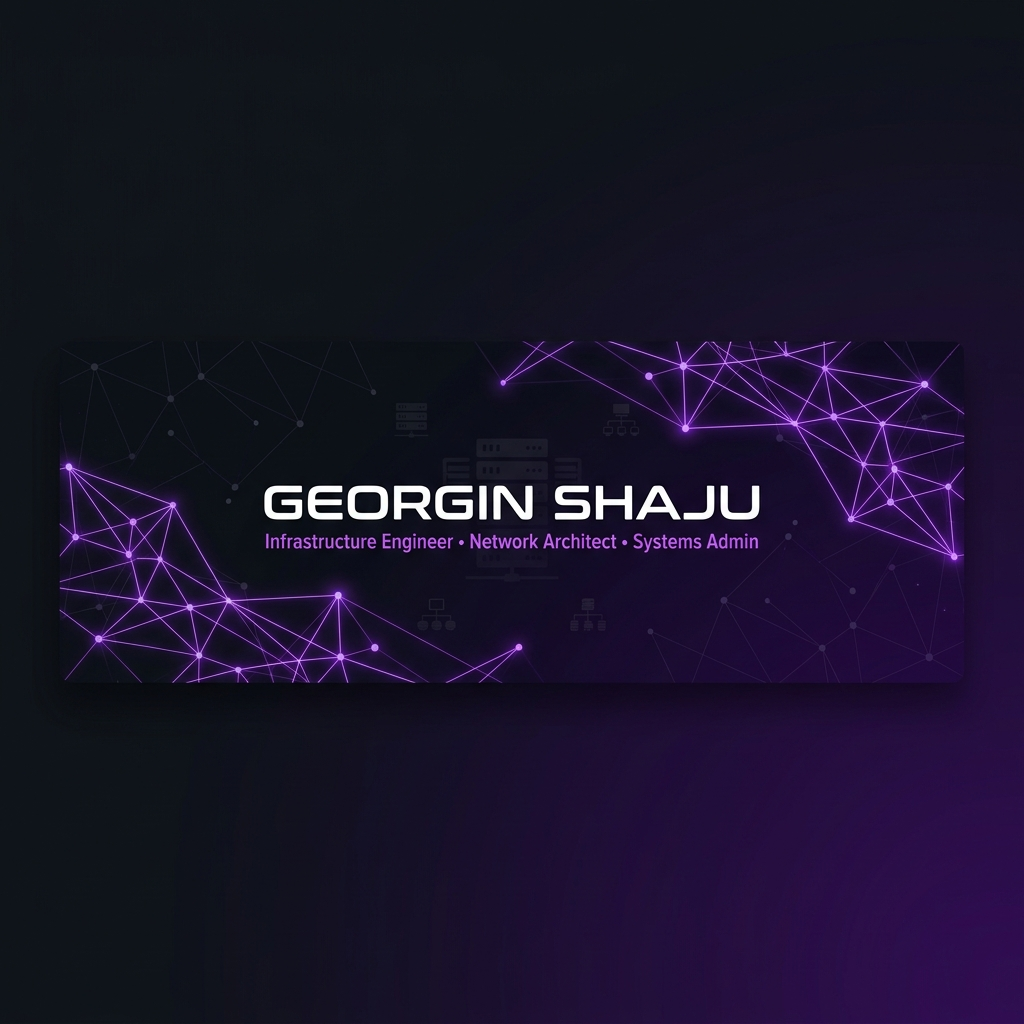
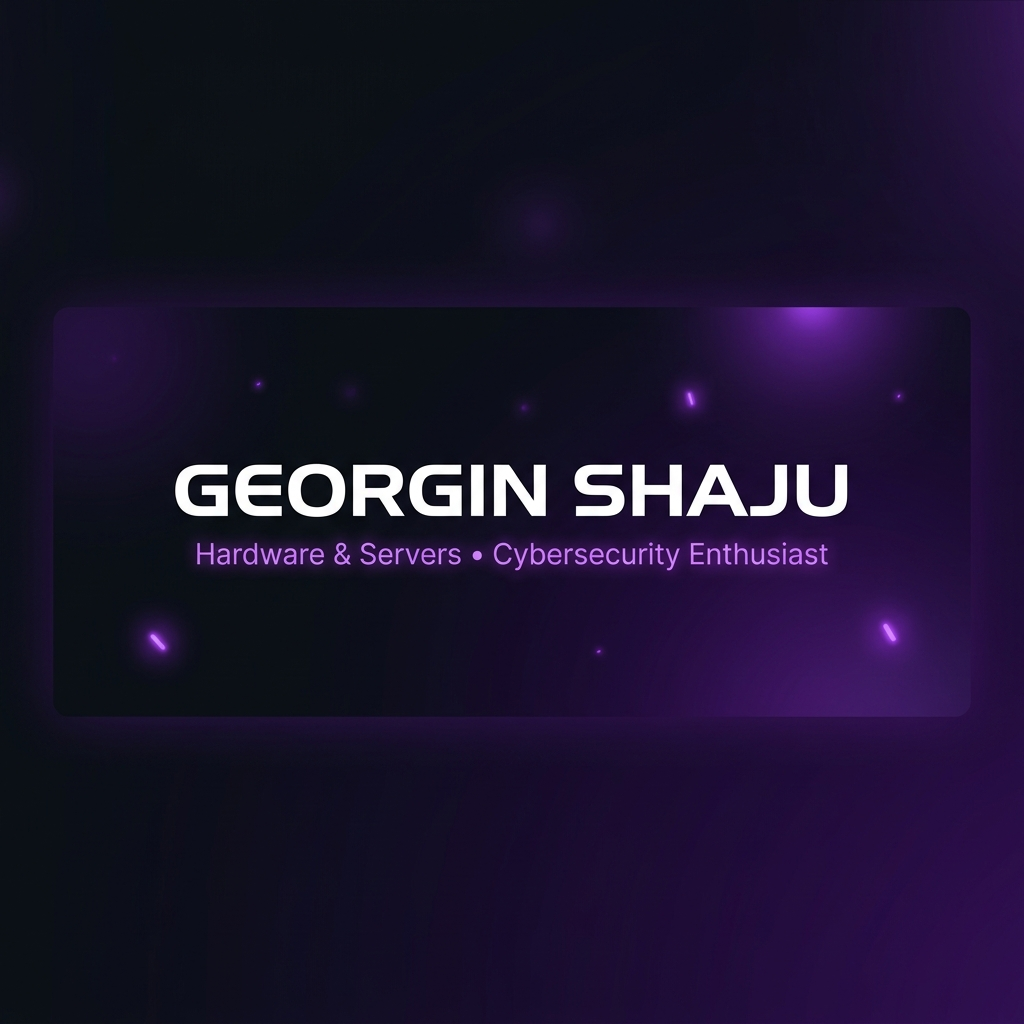
Update profile to reflect learner status and cybersecurity interest

diff --git a/README.md b/README.md
@@ -1,6 +1,6 @@
 <!-- Animated Header -->
 <div align="center">
-  <img src="https://capsule-render.vercel.app/api?type=waving&color=gradient&customColorList=6,12,19,20,25&height=180&section=header&text=GEORGIN%20SHAJU&fontSize=42&fontColor=ffffff&animation=fadeIn&fontAlignY=32&desc=Infrastructure%20Engineer%20%E2%80%A2%20Network%20Architect%20%E2%80%A2%20Systems%20Admin&descSize=16&descAlignY=52&descColor=a855f7" width="100%" />
+  <img src="https://capsule-render.vercel.app/api?type=waving&color=gradient&customColorList=6,12,19,20,25&height=180&section=header&text=GEORGIN%20SHAJU&fontSize=42&fontColor=ffffff&animation=fadeIn&fontAlignY=32&desc=IT%20Trainee%20%E2%80%A2%20Hardware%20%26%20Servers%20%E2%80%A2%20Cybersecurity%20Enthusiast&descSize=16&descAlignY=52&descColor=a855f7" width="100%" />
 </div>
 
 <!-- Custom Banner -->
@@ -13,7 +13,7 @@
 <!-- Animated Typing -->
 <div align="center">
   <a href="https://git.io/typing-svg">
-    <img src="https://readme-typing-svg.demolab.com?font=Fira+Code&weight=600&size=24&duration=3000&pause=1000&color=A855F7&center=true&vCenter=true&multiline=true&repeat=true&random=false&width=650&height=100&lines=%F0%9F%91%8B+Hey+there!+I'm+Georgin+Shaju;%F0%9F%96%A5%EF%B8%8F+IT+Infrastructure+%26+Networking+Specialist;%F0%9F%8F%97%EF%B8%8F+Building+Enterprise+Lab+Environments;%F0%9F%94%A7+VMware+%C2%B7+Windows+Server+%C2%B7+Active+Directory" alt="Typing SVG" />
+    <img src="https://readme-typing-svg.demolab.com?font=Fira+Code&weight=600&size=24&duration=3000&pause=1000&color=A855F7&center=true&vCenter=true&multiline=true&repeat=true&random=false&width=650&height=100&lines=%F0%9F%91%8B+Hey+there!+I'm+Georgin+Shaju;%F0%9F%96%A5%EF%B8%8F+Currently+learning+about+Hardware+%26+Servers;%F0%9F%94%92+Passionate+about+Cybersecurity;%F0%9F%8F%97%EF%B8%8F+Exploring+the+world+of+IT+Infrastructure" alt="Typing SVG" />
   </a>
 </div>
 
@@ -50,25 +50,20 @@
 🏷 Name:     Georgin Shaju
 🌐 Username: Ftgeorgii
 📍 Location: India 🇮🇳
-🎯 Focus:    IT Infrastructure & Networking
+🎯 Focus:    IT Infrastructure & Cybersecurity
 
 🔭 Currently:
-  → Building enterprise-grade lab environments
-  → Designing network infrastructure solutions
+  → In an IT training program learning the foundations
+  → Studying computer hardware components and assembly
+  → Exploring Windows Server administration
+  → Diving into cybersecurity concepts and principles
 
 🌱 Learning:
-  → Cloud infrastructure (AWS / Azure)
-  → Network automation & IaC
-  → Container orchestration
+  → Server Management & Active Directory
+  → Network fundamentals
+  → Cybersecurity basics and defense strategies
 
-💼 Experience:
-  → VMware ESXi virtualization
-  → Windows Server 2019 administration
-  → Active Directory & Group Policy
-  → DNS, DHCP & enterprise networking
-  → HPE ProLiant DL360 Gen9 hardware
-
-⚡ Fun Fact: I build production-ready infra in my home lab
+⚡ Fun Fact: I enjoy taking computers apart to see how they work!
 ```
 
 <br clear="both"/>
@@ -118,7 +113,7 @@
 <br/>
 
 <!-- Tech Stack - Premium Grid -->
-## 🛠 **Tech Arsenal**
+## 🛠 **Current Tech Arsenal**
 
 <div align="center">
 
@@ -127,79 +122,28 @@
   <img src="https://img.shields.io/badge/Windows_Server-0078D4?style=for-the-badge&logo=windows&logoColor=white" />
   <img src="https://img.shields.io/badge/VMware_ESXi-607078?style=for-the-badge&logo=vmware&logoColor=white" />
   <img src="https://img.shields.io/badge/Active_Directory-003366?style=for-the-badge&logo=microsoft&logoColor=white" />
-  <img src="https://img.shields.io/badge/Hyper--V-5E5E5E?style=for-the-badge&logo=microsoft&logoColor=white" />
-  <img src="https://img.shields.io/badge/VirtualBox-183A61?style=for-the-badge&logo=virtualbox&logoColor=white" />
 </p>
 
 ### 🌐 Networking & Security
 <p>
+  <img src="https://img.shields.io/badge/Cybersecurity-CC0000?style=for-the-badge&logoColor=white" />
   <img src="https://img.shields.io/badge/DNS-4285F4?style=for-the-badge&logo=googledns&logoColor=white" />
   <img src="https://img.shields.io/badge/DHCP-005571?style=for-the-badge&logoColor=white" />
   <img src="https://img.shields.io/badge/TCP%2FIP-FF6F00?style=for-the-badge&logoColor=white" />
-  <img src="https://img.shields.io/badge/Group_Policy-0078D4?style=for-the-badge&logo=microsoft&logoColor=white" />
-  <img src="https://img.shields.io/badge/Firewall-CC0000?style=for-the-badge&logo=cisco&logoColor=white" />
-  <img src="https://img.shields.io/badge/VPN-2F5233?style=for-the-badge&logo=wireguard&logoColor=white" />
 </p>
 
-### 🔧 Tools & Scripting
+### 🔧 Tools
 <p>
   <img src="https://img.shields.io/badge/PowerShell-5391FE?style=for-the-badge&logo=powershell&logoColor=white" />
-  <img src="https://img.shields.io/badge/Bash-4EAA25?style=for-the-badge&logo=gnubash&logoColor=white" />
-  <img src="https://img.shields.io/badge/Python-3776AB?style=for-the-badge&logo=python&logoColor=white" />
+  <img src="https://img.shields.io/badge/Linux-FCC624?style=for-the-badge&logo=linux&logoColor=black" />
   <img src="https://img.shields.io/badge/Git-F05032?style=for-the-badge&logo=git&logoColor=white" />
-  <img src="https://img.shields.io/badge/VS_Code-007ACC?style=for-the-badge&logo=visual-studio-code&logoColor=white" />
 </p>
 
-### 🏢 Infrastructure & Cloud
+### 🏢 Hardware
 <p>
   <img src="https://img.shields.io/badge/HPE_ProLiant-00B388?style=for-the-badge&logo=hp&logoColor=white" />
-  <img src="https://img.shields.io/badge/Cisco-1BA0D7?style=for-the-badge&logo=cisco&logoColor=white" />
-  <img src="https://img.shields.io/badge/Docker-2496ED?style=for-the-badge&logo=docker&logoColor=white" />
-  <img src="https://img.shields.io/badge/Linux-FCC624?style=for-the-badge&logo=linux&logoColor=black" />
-  <img src="https://img.shields.io/badge/AWS-232F3E?style=for-the-badge&logo=amazonwebservices&logoColor=white" />
-  <img src="https://img.shields.io/badge/Azure-0078D4?style=for-the-badge&logo=microsoftazure&logoColor=white" />
+  <img src="https://img.shields.io/badge/Computer_Hardware-5E5E5E?style=for-the-badge&logoColor=white" />
 </p>
-
-</div>
-
-<br/>
-
-<img src="https://user-images.githubusercontent.com/73097560/115834477-dbab4500-a447-11eb-908a-139a6edaec5c.gif" width="100%">
-
-<br/>
-
-<!-- Infrastructure Skills Map - Premium ASCII Art -->
-## 🏗 **Infrastructure Architecture**
-
-<div align="center">
-
-```
-                          ┌──────────────────┐
-                          │   🌐 INTERNET     │
-                          └────────┬─────────┘
-                                   │
-                          ┌────────▼─────────┐
-                          │   🔥 FIREWALL     │
-                          │   Cisco ASA       │
-                          └────────┬─────────┘
-                                   │
-                 ┌─────────────────┼─────────────────┐
-                 │                 │                  │
-        ┌────────▼──────┐ ┌───────▼───────┐ ┌───────▼───────┐
-        │  🖥 DMZ       │ │  🏢 LAN       │ │  📡 MGMT     │
-        │  Web Server   │ │  AD / DNS     │ │  vSphere     │
-        │  Reverse Proxy│ │  DHCP / GPO   │ │  Monitoring  │
-        └───────────────┘ │  File Server  │ └───────────────┘
-                          └───────┬───────┘
-                                  │
-                    ┌─────────────┼─────────────┐
-                    │             │              │
-           ┌───────▼──────┐ ┌────▼─────┐ ┌─────▼──────┐
-           │ 🖥 ESXi Host │ │ 🖥 ESXi  │ │ 🐳 Docker  │
-           │ HPE DL360    │ │ Host 2   │ │ Containers │
-           │ Gen9         │ │          │ │            │
-           └──────────────┘ └──────────┘ └────────────┘
-```
 
 </div>
 
@@ -215,12 +159,6 @@
 <div align="center">
   <img width="49%" src="https://github-readme-stats.vercel.app/api?username=FTGEORGII&show_icons=true&theme=radical&hide_border=true&bg_color=0d1117&title_color=a855f7&icon_color=a855f7&text_color=c9d1d9&ring_color=a855f7&count_private=true" alt="GitHub Stats" />
   <img width="49%" src="https://github-readme-streak-stats.herokuapp.com/?user=FTGEORGII&theme=radical&hide_border=true&background=0d1117&ring=a855f7&fire=a855f7&currStreakLabel=a855f7&sideLabels=c9d1d9&currStreakNum=c9d1d9&dates=555555" alt="GitHub Streak" />
-</div>
-
-<br/>
-
-<div align="center">
-  <img width="38%" src="https://github-readme-stats.vercel.app/api/top-langs/?username=FTGEORGII&layout=compact&theme=radical&hide_border=true&bg_color=0d1117&title_color=a855f7&text_color=c9d1d9&langs_count=8" alt="Top Languages" />
 </div>
 
 <br/>
@@ -266,54 +204,16 @@
 
 <br/>
 
-<!-- Certifications / Learning Path -->
-## 🎓 **Learning & Certifications**
-
-<div align="center">
-  <table>
-    <tr>
-      <td align="center" width="170">
-        <img src="https://img.shields.io/badge/CompTIA-Network+-CE1622?style=for-the-badge&logo=comptia&logoColor=white" /><br/>
-        <sub>🎯 Target</sub>
-      </td>
-      <td align="center" width="170">
-        <img src="https://img.shields.io/badge/CompTIA-Security+-CE1622?style=for-the-badge&logo=comptia&logoColor=white" /><br/>
-        <sub>🎯 Target</sub>
-      </td>
-      <td align="center" width="170">
-        <img src="https://img.shields.io/badge/AWS-Cloud_Practitioner-232F3E?style=for-the-badge&logo=amazonwebservices&logoColor=white" /><br/>
-        <sub>📚 Studying</sub>
-      </td>
-      <td align="center" width="170">
-        <img src="https://img.shields.io/badge/CCNA-Cisco-1BA0D7?style=for-the-badge&logo=cisco&logoColor=white" /><br/>
-        <sub>🎯 Target</sub>
-      </td>
-    </tr>
-  </table>
-</div>
-
-<br/>
-
-<img src="https://user-images.githubusercontent.com/73097560/115834477-dbab4500-a447-11eb-908a-139a6edaec5c.gif" width="100%">
-
-<br/>
-
 <!-- Connect Section -->
 ## 🤝 **Let's Connect**
 
 <div align="center">
 
-<a href="https://linkedin.com/in/YOUR-LINKEDIN"><img src="https://img.shields.io/badge/LinkedIn-0A66C2?style=for-the-badge&logo=linkedin&logoColor=white" /></a>
-&nbsp;
-<a href="https://twitter.com/YOUR-TWITTER"><img src="https://img.shields.io/badge/𝕏-000000?style=for-the-badge&logo=x&logoColor=white" /></a>
-&nbsp;
-<a href="https://instagram.com/YOUR-INSTAGRAM"><img src="https://img.shields.io/badge/Instagram-E4405F?style=for-the-badge&logo=instagram&logoColor=white" /></a>
-&nbsp;
-<a href="mailto:your.email@gmail.com"><img src="https://img.shields.io/badge/Gmail-EA4335?style=for-the-badge&logo=gmail&logoColor=white" /></a>
+<a href="https://www.linkedin.com/in/georginshaju"><img src="https://img.shields.io/badge/LinkedIn-0A66C2?style=for-the-badge&logo=linkedin&logoColor=white" /></a>
 
 <br/><br/>
 
-💬 *Feel free to reach out for collaborations, infrastructure discussions, or just to say hi!*
+💬 *Feel free to reach out to connect and share learning experiences!*
 
 </div>
 
@@ -326,21 +226,11 @@
 
 <br/>
 
-<!-- Metrics -->
-<div align="center">
-  
-  ```diff
-  +@ INFRASTRUCTURE IS NOT JUST ABOUT SERVERS @+
-  +@ IT'S ABOUT BUILDING THE FOUNDATION FOR INNOVATION @+
-  ```
-
-</div>
-
 <!-- Footer -->
 <div align="center">
   <img src="https://capsule-render.vercel.app/api?type=waving&color=gradient&customColorList=6,12,19,20,25&height=120&section=footer&text=Thanks%20for%20visiting!%20⭐&fontSize=24&fontColor=ffffff&animation=twinkling&fontAlignY=70" width="100%" />
 </div>
 
 <div align="center">
-  <sub>✨ Crafted with ❤ by <a href="https://github.com/FTGEORGII">Georgin Shaju</a> | Infrastructure Enthusiast ✨</sub>
+  <sub>✨ Crafted with ❤ by <a href="https://github.com/FTGEORGII">Georgin Shaju</a> | IT & Cybersecurity Learner ✨</sub>
 </div>
